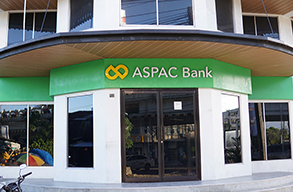
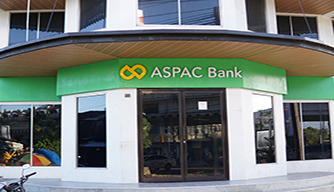
Update code

diff --git a/src/Pages/Branches.tsx b/src/Pages/Branches.tsx
@@ -9,14 +9,14 @@ const branches = [
     contact: "(032) 345-0929/345-0930",
     hours: "9:00 AM - 3:00 PM (Mon-Fri)",
     mapUrl:
-      "https://www.google.com/maps/place/10%C2%B020'05.6%22N+123%C2%B056'https://www.google.com/maps/search/?api=1&query=ASPAC+Bank+Mandaue23.4%22E/@10.334875,123.939833,18z/data=!4m4!3m3!8m2!3d10.3348754!4d123.9398333?hl=en-US&entry=ttu&g_ep=EgoyMDI1MDMyNS4xIKXMDSoASAFQAw%3D%3D",
+      "https://www.google.com/maps/place/10%C2%B020'05.6%22N+123%C2%B056'23.4%22E/@10.334875,123.939833,18z/data=!4m4!3m3!8m2!3d10.3348754!4d123.9398333?hl=en-US&entry=ttu&g_ep=EgoyMDI1MDMyNS4xIKXMDSoASAFQAw%3D%3D",
     image: "/Mandaue.jpg",
   },
   {
     name: "Banilad Branch",
     address:
-      "UC Building 6000 Cebu City (Capital) Cebu Philippines",
-    contact: "(0917-129-7936)",
+      "ASPAC BANK Bldg. Cor. N. Bacalso St. & P. Del Rosario Ext., Sambag 1 (Pob.) 6000 Cebu City (Capital) Cebu Philippines",
+    contact: "(0917-102-5671)",
     hours: "9:00 AM - 3:00 PM (Mon-Fri)",
     mapUrl:
       "https://www.google.com/maps/place/10%C2%B020'18.7%22N+123%C2%B054'42.0%22E/@10.3385492,123.911637,3a,75y,140.89h,90t/data=!3m7!1e1!3m5!1sXmNZr6TyAw_ZeLc-zYzrCA!2e0!6shttps:%2F%2Fstreetviewpixels-pa.googleapis.com%2Fv1%2Fthumbnail%3Fcb_client%3Dmaps_sv.tactile%26w%3D900%26h%3D600%26pitch%3D0%26panoid%3DXmNZr6TyAw_ZeLc-zYzrCA%26yaw%3D140.89452!7i16384!8i8192!4m4!3m3!8m2!3d10.3385262!4d123.9116589?hl=en-US&entry=ttu&g_ep=EgoyMDI1MDQyNy4xIKXMDSoASAFQAw%3D%3D",
@@ -49,8 +49,8 @@ const branches = [
   {
     name: "Carbon Branch",
     address:
-      "Escaño St. Ermita (Pob) 6000 Cebu City (Capital) Cebu Philippines",
-    contact: "('0917-130-6492)",
+      "ASPAC BANK Bldg. Cor. N. Bacalso St. & P. Del Rosario Ext., Sambag 1 (Pob.) 6000 Cebu City (Capital) Cebu Philippines",
+    contact: "(0917-102-5671)",
     hours: "9:00 AM - 3:00 PM (Mon-Fri)",
     mapUrl:
       "https://www.google.com/maps/place/10%C2%B017'34.3%22N+123%C2%B053'49.9%22E/@10.29285,123.897206,18z/data=!4m4!3m3!8m2!3d10.2928495!4d123.8972062?hl=en-US&entry=ttu&g_ep=EgoyMDI1MDQyNy4xIKXMDSoASAFQAw%3D%3D",
@@ -168,7 +168,8 @@ const Branches: React.FC = () => {
             <img
               src={branch.image}
               alt={`${branch.name} image`}
-              className="w-full h-48 object-cover rounded-lg mb-4 transition-transform duration-300 transform hover:scale-105"
+             className="w-full h-48 object-contain rounded-lg mb-4 transition-transform duration-300 transform hover:scale-105 "
+
             />
             <h2 className="text-2xl font-semibold text-green-600">{branch.name}</h2>
             <p className="text-lg text-gray-700 mt-2">{branch.address}</p>
